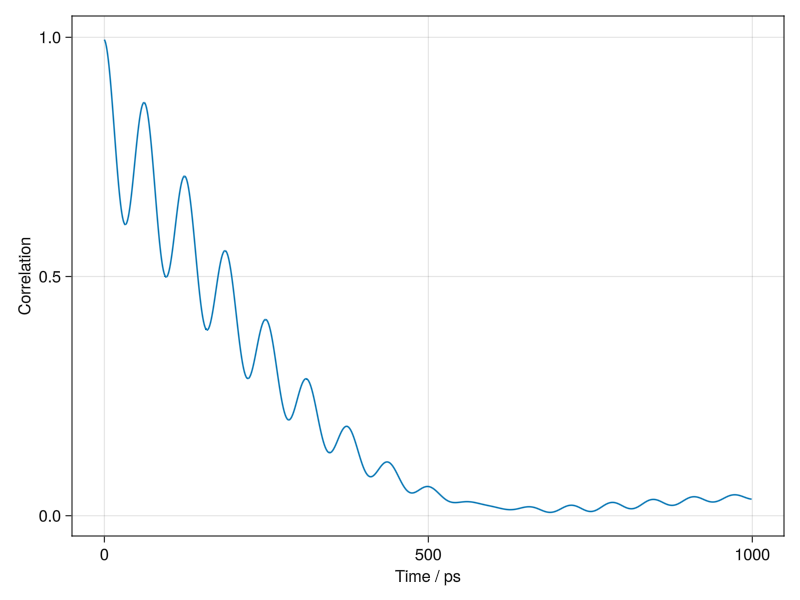
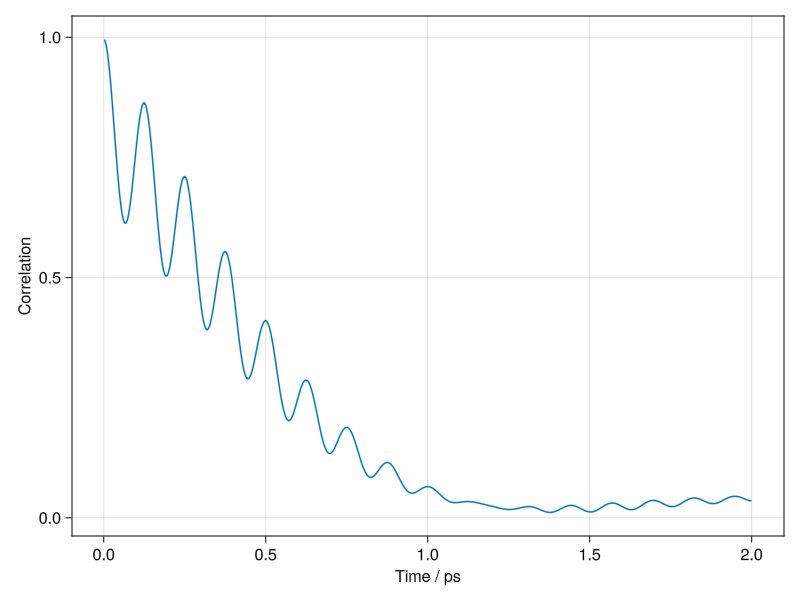
fix axis in correlation docs

diff --git a/docs/src/docs.md b/docs/src/docs.md
@@ -1231,8 +1231,9 @@ sys = System(
 
 We leave the loggers empty until we thermalize the system using Langevin dynamics.
 ```julia
+dt = 0.002u"ps"
 simulator = LangevinSplitting(
-    dt=0.002u"ps",
+    dt=dt,
     temperature=temp,
     friction=10.0u"g * mol^-1 * ps^-1",
     splitting="BAOAB",
@@ -1276,10 +1277,9 @@ show(sys.loggers)
 Note we also could have used the convenience function [`AutoCorrelationLogger`](@ref) to define our logger since the two observables we are correlating are the same.
 ```julia
 using GLMakie
-
 f = Figure()
 ax = Axis(f[1, 1], xlabel="Time / ps", ylabel="Correlation")
-lines!(0:999, values(sys.loggers.velocity_autocorrelation))
+lines!((1:1000) .* ustrip(dt), values(sys.loggers.velocity_autocorrelation))
 ```
 ![Velocity Autocorrelations](images/velocity_autocorrelations.png)\
 As expected, the velocities are highly correlated at small time offsets and the correlation decays rapidly.
